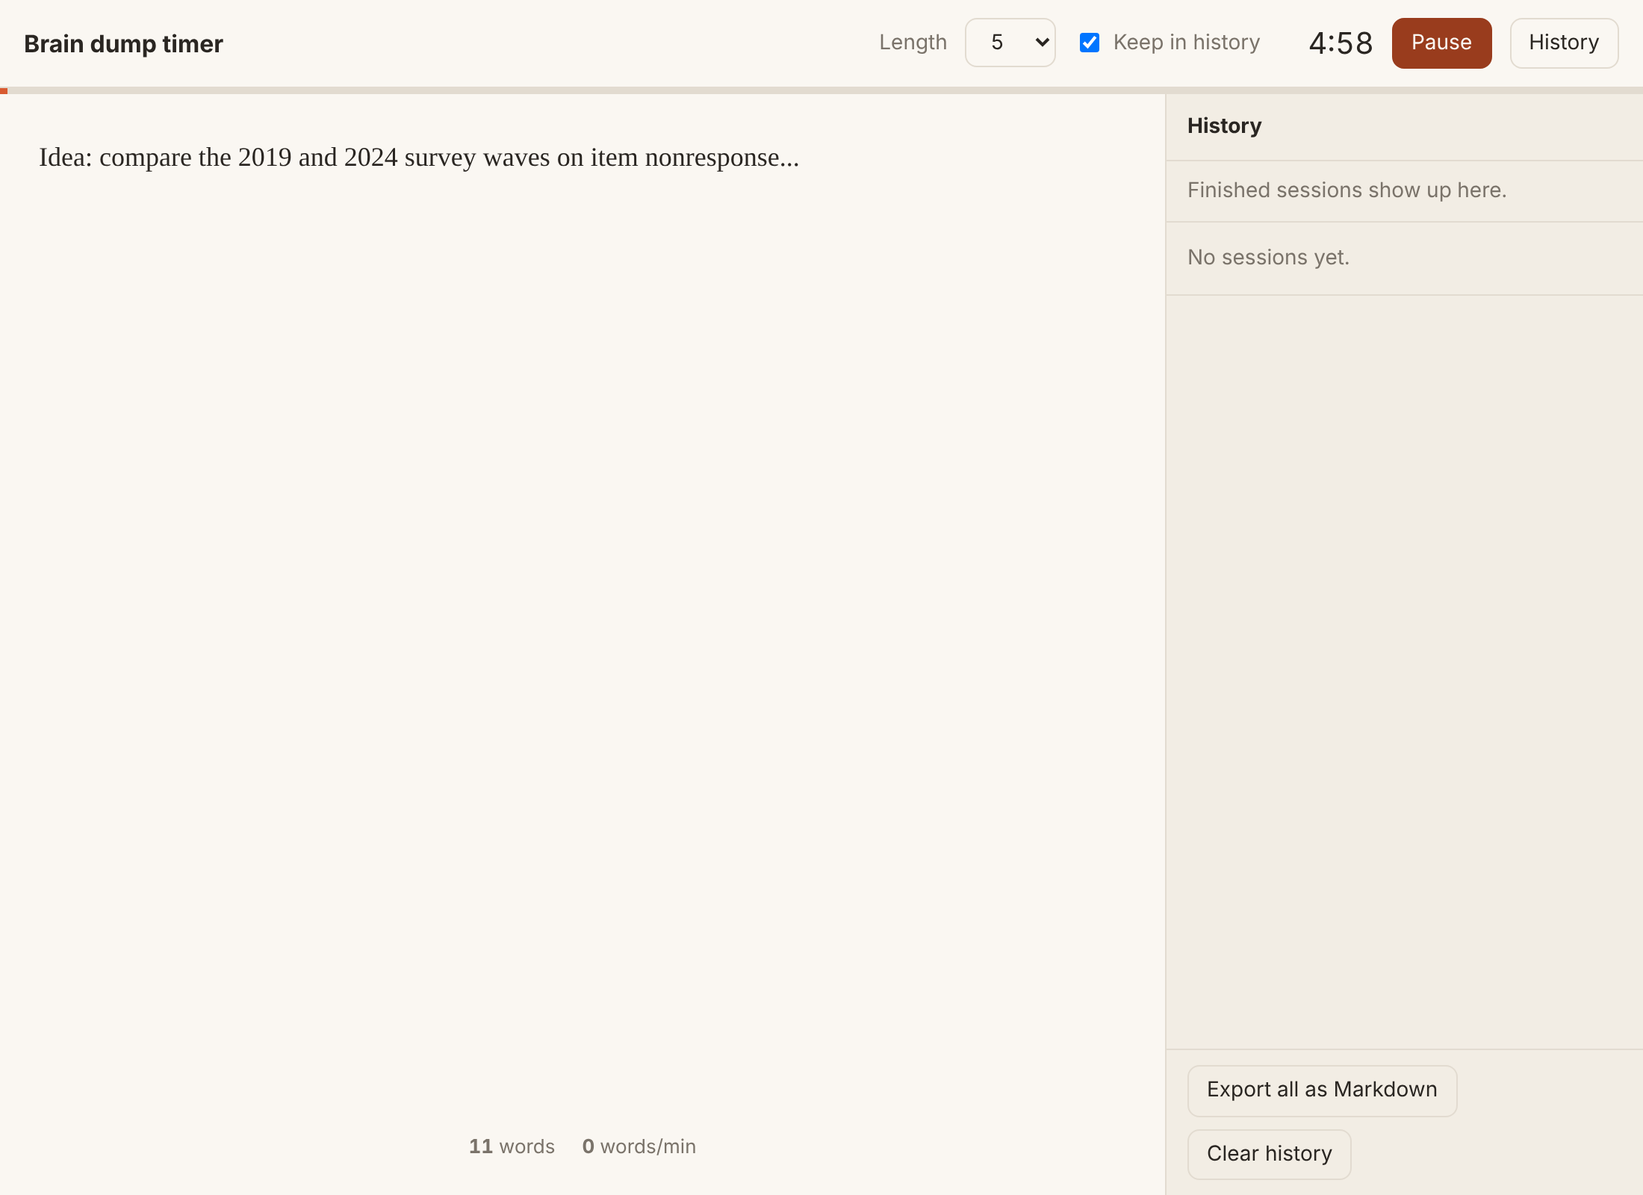
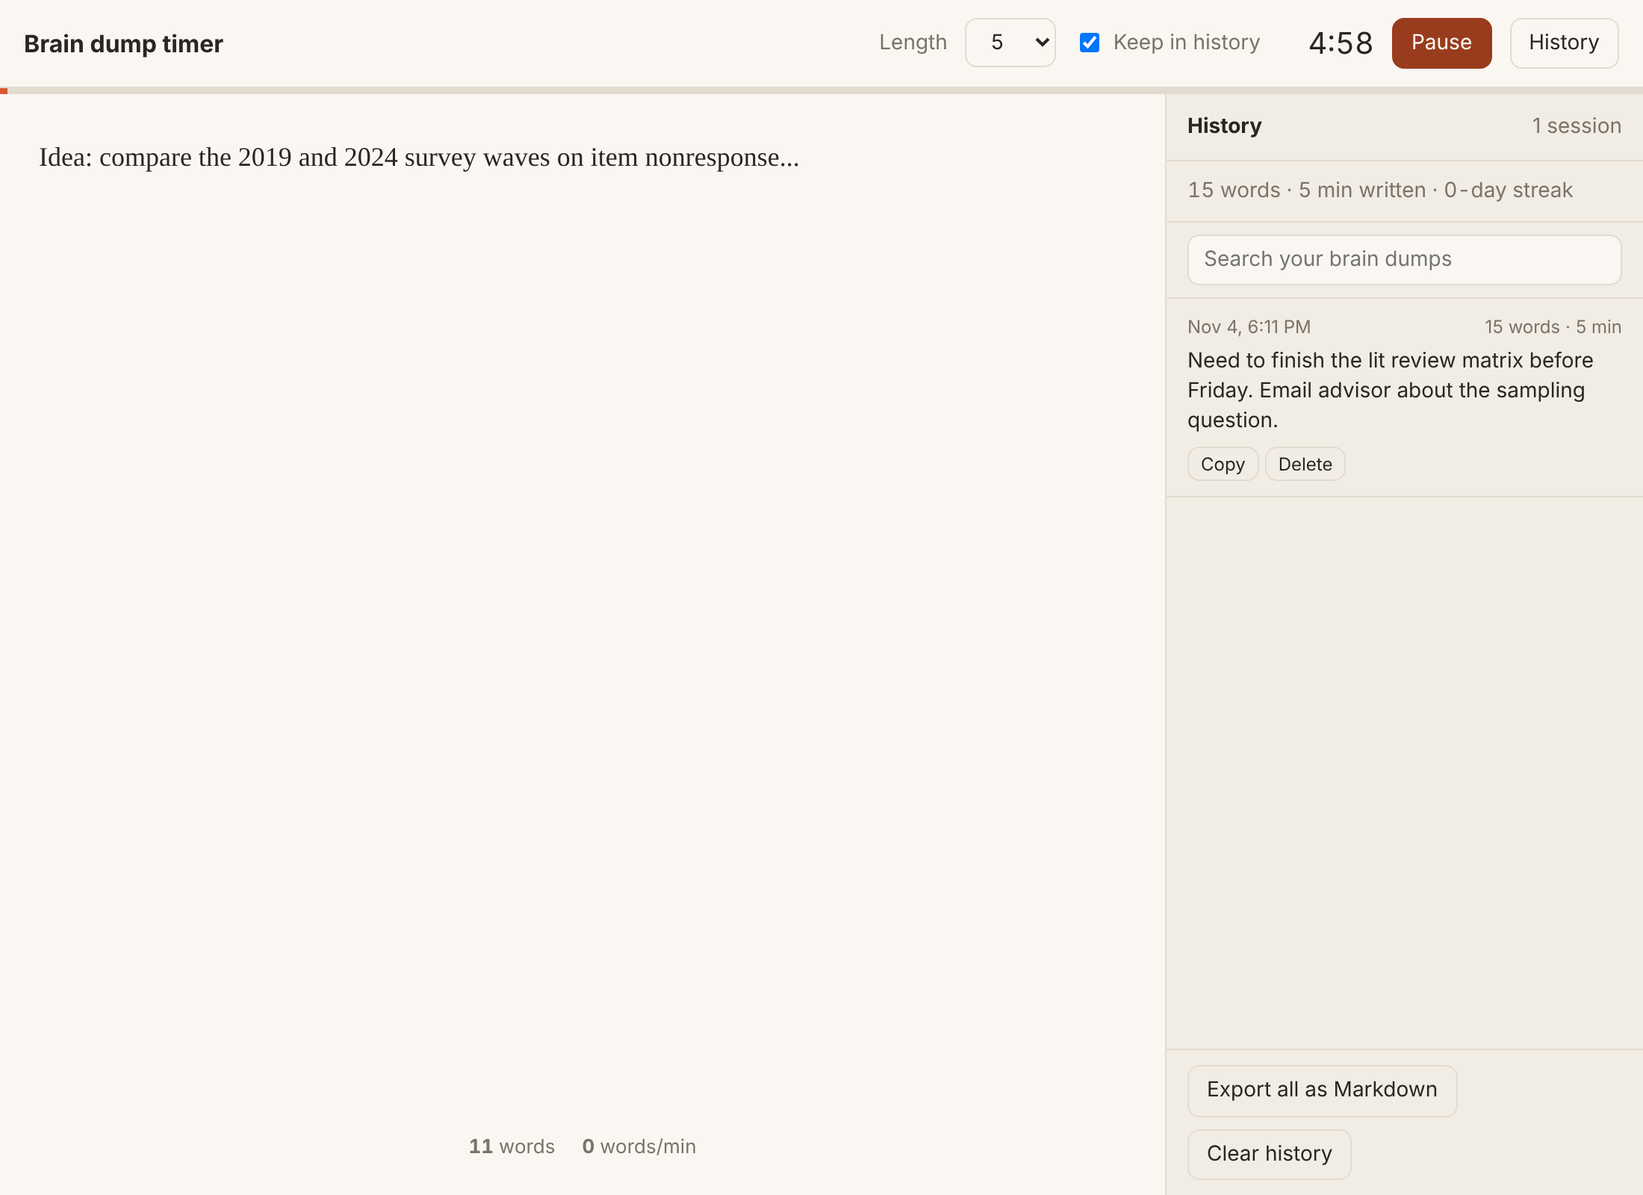
Week 8 apps: third iteration (Prompt 3)
Citation formatter: in-text citations, duplicate check, shortcuts.
Study planner: per-topic progress, hide finished days, shortcut.
Brain dump timer: history search with highlights, shortcuts.

Claude-Session: https://claude.ai/code/session_018oedMa7bfhyunVryLtJbkR

diff --git a/citation_formatter/citation-formatter.html b/citation_formatter/citation-formatter.html
@@ -38,6 +38,10 @@
   ol#lib li:first-child { border-top:0; }
   .empty { color:var(--muted); font-size:14px; padding:8px 0; }
   details { margin-top:12px; } summary { cursor:pointer; color:var(--accent); font-size:14px; }
+  .intext { display:grid; grid-template-columns:auto 1fr auto; gap:6px 12px; align-items:center; font-size:14px; }
+  .intext span.k { color:var(--muted); font-size:12px; } .intext code { font-family:Georgia, serif; font-size:15px; }
+  kbd { font:12px ui-monospace, Menlo, monospace; border:1px solid var(--line); border-bottom-width:2px; border-radius:4px; padding:0 4px; }
+  .dup { color:var(--warn); font-size:12px; }
 </style>
 </head>
 <body>
@@ -91,7 +95,10 @@
       <div class="out"><h3>APA 7 <button data-k="apa">Copy</button></h3><div class="cite" id="apa"></div></div>
       <div class="out"><h3>MLA 9 <button data-k="mla">Copy</button></h3><div class="cite" id="mla"></div></div>
       <div class="out"><h3>Chicago author-date <button data-k="chi">Copy</button></h3><div class="cite" id="chi"></div></div>
-      <p class="hint">Check against your style guide; title capitalization is kept as entered.</p>
+      <div class="out"><h3>In-text citations</h3>
+        <div class="intext" id="intext"></div>
+      </div>
+      <p class="hint">Check against your style guide; title capitalization is kept as entered. Shortcuts: <kbd>/</kbd> jumps to DOI lookup, <kbd>Ctrl</kbd>/<kbd>⌘</kbd>+<kbd>Enter</kbd> adds to the list.</p>
     </section>
   </div>
 
@@ -199,6 +206,18 @@ function chicago(d, A) {
   return out;
 }
 const FMT = { apa, mla, chi: chicago };
+function inText(d, A) {
+  const L = A.map(a => a.last), y = d.year || "n.d.";
+  const pg = (d.pages || "").split(/[-–]/)[0];
+  const apaN = !L.length ? `“${(d.title || "Untitled").split(/\s+/).slice(0, 4).join(" ")}”` : L.length === 1 ? L[0] : L.length === 2 ? `${L[0]} & ${L[1]}` : `${L[0]} et al.`;
+  const mlaN = !L.length ? `“${(d.title || "Untitled").split(/\s+/).slice(0, 4).join(" ")}”` : L.length === 1 ? L[0] : L.length === 2 ? `${L[0]} and ${L[1]}` : `${L[0]} et al.`;
+  const chiN = !L.length ? mlaN : L.length <= 3 ? (L.length === 1 ? L[0] : L.slice(0, -1).join(", ") + " and " + L.at(-1)) : `${L[0]} et al.`;
+  return [
+    ["APA", `(${apaN}, ${y})`, `${apaN.replace(" & ", " and ")} (${y})`],
+    ["MLA", `(${mlaN}${pg ? " " + pg : ""})`, ""],
+    ["Chicago", `(${chiN} ${y}${pg ? ", " + pg : ""})`, ""],
+  ];
+}
 const current = () => Object.fromEntries(F.map(k => [k, $(k).value.trim()]));
 
 function render() {
@@ -211,6 +230,15 @@ function render() {
   $("pubWrap").querySelector("label").textContent = t === "web" ? "Website name" : "Journal";
   const A = parseAuthors(d.authors), empty = !d.title && !A.length;
   for (const k in FMT) $(k).innerHTML = empty ? "" : FMT[k](d, A);
+  const box = $("intext"); box.innerHTML = "";
+  if (!empty) inText(d, A).forEach(([style, paren, narr]) => {
+    const k = document.createElement("span"); k.className = "k"; k.textContent = style;
+    const c = document.createElement("code"); c.textContent = paren + (narr ? "   ·   " + narr : "");
+    const b = document.createElement("button"); b.textContent = "Copy"; b.onclick = () => copyText(b, paren);
+    box.append(k, c, b);
+  });
+  const dupe = lib.some(x => sameRef(x, d));
+  $("save").title = dupe ? "This source is already in your list" : "";
   try { localStorage.setItem(KEY, JSON.stringify(d)); } catch (e) {}
 }
 function fill(d) { F.forEach(k => $(k).value = d[k] || (k === "type" ? "article" : "")); render(); }
@@ -243,6 +271,8 @@ async function lookup() {
 }
 
 /* ---- Reference list ---- */
+const norm = s => (s || "").toLowerCase().replace(/[^a-z0-9]/g, "");
+const sameRef = (a, b) => (norm(a.url) && norm(a.url) === norm(b.url)) || (norm(a.title) && norm(a.title) === norm(b.title) && (a.year || "") === (b.year || ""));
 function saveLib() { try { localStorage.setItem(LIB, JSON.stringify(lib)); } catch (e) {} }
 const sortKey = d => ((parseAuthors(d.authors)[0]?.last || d.title || "") + " " + d.year).toLowerCase();
 function renderLib() {
@@ -334,11 +364,16 @@ function download(name, text, mime) {
 /* ---- wiring ---- */
 F.forEach(k => $(k).addEventListener("input", render));
 $("lookup").onclick = lookup;
+document.addEventListener("keydown", e => {
+  if (e.key === "/" && !/INPUT|TEXTAREA|SELECT/.test(document.activeElement.tagName)) { e.preventDefault(); $("doiLookup").focus(); }
+  if (e.key === "Enter" && (e.ctrlKey || e.metaKey)) { e.preventDefault(); $("save").click(); }
+});
 $("doiLookup").addEventListener("keydown", e => { if (e.key === "Enter") lookup(); });
 document.querySelectorAll("[data-k]").forEach(b => b.addEventListener("click", () => { const el = $(b.dataset.k); copyText(b, el.textContent, el.innerHTML); }));
 $("save").onclick = () => {
   const d = current();
   if (!d.title && !d.authors) { $("lookupStatus").className = "status err"; $("lookupStatus").textContent = "Add at least a title or an author before saving."; return; }
+  if (lib.some(x => sameRef(x, d))) { $("lookupStatus").className = "status err"; $("lookupStatus").textContent = "That source is already in your reference list."; return; }
   lib.push(d); saveLib(); renderLib();
   $("save").textContent = "Added"; setTimeout(() => $("save").textContent = "Add to reference list", 1200);
 };
@@ -359,8 +394,10 @@ $("importBtn").onclick = () => {
   const txt = $("importBox").value, st = $("importStatus");
   const items = /^\s*@/m.test(txt) ? parseBibtex(txt) : /^TY\s{2}-/m.test(txt) ? parseRis(txt) : [];
   if (!items.length) { st.className = "status err"; st.textContent = "No BibTeX (@article{…}) or RIS (TY  - …) entries found."; return; }
-  lib.push(...items); saveLib(); renderLib();
-  st.className = "status ok"; st.textContent = `Imported ${items.length} reference${items.length > 1 ? "s" : ""}.`; $("importBox").value = "";
+  const fresh = items.filter(it => !lib.some(x => sameRef(x, it)));
+  lib.push(...fresh); saveLib(); renderLib();
+  const skipped = items.length - fresh.length;
+  st.className = "status ok"; st.textContent = `Imported ${fresh.length} reference${fresh.length === 1 ? "" : "s"}` + (skipped ? `, skipped ${skipped} already in your list.` : "."); $("importBox").value = "";
 };
 
 try {

diff --git a/study_planner/study-planner.html b/study_planner/study-planner.html
@@ -17,6 +17,7 @@
   input, textarea, select { width:100%; padding:8px 10px; font:inherit; color:var(--ink); background:var(--bg); border:1px solid var(--line); border-radius:8px; }
   textarea { min-height:130px; resize:vertical; }
   .hint { font-size:12px; color:var(--muted); margin-top:4px; }
+  kbd { font:11px ui-monospace, Menlo, monospace; border:1px solid var(--line); border-bottom-width:2px; border-radius:4px; padding:0 4px; }
   .row { display:grid; grid-template-columns:repeat(4, 1fr); gap:12px; }
   @media (max-width:720px) { .row { grid-template-columns:1fr 1fr; } }
   button { font:inherit; font-size:14px; padding:8px 14px; border-radius:8px; border:1px solid var(--accent); background:var(--accent); color:var(--card); cursor:pointer; }
@@ -39,6 +40,11 @@
   .pill.late { background:var(--warnTint); color:var(--warn); }
   .done span.t { text-decoration:line-through; color:var(--muted); }
   .exam { color:var(--warn); font-weight:600; }
+  .topics { display:grid; grid-template-columns:repeat(auto-fill, minmax(190px, 1fr)); gap:8px 16px; margin:14px 0 6px; font-size:13px; }
+  .topics div { min-width:0; } .topics .nm { display:flex; justify-content:space-between; gap:6px; }
+  .topics .nm span:first-child { overflow:hidden; text-overflow:ellipsis; white-space:nowrap; }
+  .topics .mini { height:4px; background:var(--line); border-radius:2px; overflow:hidden; margin-top:3px; } .topics .mini i { display:block; height:100%; background:var(--accent); }
+  .toggle { font-size:13px; color:var(--muted); display:flex; gap:6px; align-items:center; margin:0; } .toggle input { width:auto; }
   @media (max-width:520px) { .day { grid-template-columns:1fr; gap:4px; } }
 </style>
 </head>
@@ -50,7 +56,7 @@
   <section class="card">
     <label for="topics">Topics, one per line</label>
     <textarea id="topics" placeholder="Research design&#10;Sampling methods | hard&#10;Measurement | easy"></textarea>
-    <div class="hint">Add “| hard” or “| easy” after a topic to change how often it comes back. No tag means medium.</div>
+    <div class="hint">Add “| hard” or “| easy” after a topic to change how often it comes back. No tag means medium. <kbd>Ctrl</kbd>/<kbd>⌘</kbd>+<kbd>Enter</kbd> builds the plan.</div>
     <div class="row">
       <div><label for="start">Start date</label><input id="start" type="date"></div>
       <div><label for="exam">Deadline / exam date</label><input id="exam" type="date"></div>
@@ -67,10 +73,12 @@
   <section class="card" id="planCard" hidden>
     <div style="display:flex;justify-content:space-between;align-items:center;gap:10px;flex-wrap:wrap">
       <strong>Your plan</strong>
+      <label class="toggle"><input type="checkbox" id="hideDone"> Hide finished days</label>
       <div class="stats"><span><b id="sDone">0</b> of <b id="sTotal">0</b> done</span><span><b id="sDays">0</b> days left</span><span><b id="sToday">0</b> today</span></div>
     </div>
     <div class="bar"><i id="pbar"></i></div>
     <div class="banner" id="missed" hidden><span id="missedTxt"></span><button id="resched" type="button">Reschedule from today</button></div>
+    <div class="topics" id="topicProg"></div>
     <div id="plan"></div>
     <div class="actions">
       <button id="ics" class="ghost" type="button">Export to calendar (.ics)</button>
@@ -157,8 +165,19 @@ function render() {
   $("planCard").hidden = false;
   const box = $("plan"), t = todayISO(); box.innerHTML = "";
   let total = 0, done = 0, today = 0;
+  const per = {};
+  state.plan.forEach(day => day.items.forEach(it => { if (it.step === "Final") return; const p = per[it.topic] ||= { done: 0, total: 0, level: it.level }; p.total++; if (it.done) p.done++; }));
+  const tp = $("topicProg"); tp.innerHTML = "";
+  Object.entries(per).forEach(([name, p]) => {
+    const d = document.createElement("div");
+    d.innerHTML = `<div class="nm"><span></span><span>${p.done}/${p.total}</span></div><div class="mini"><i style="width:${100 * p.done / p.total}%"></i></div>`;
+    d.querySelector(".nm span").textContent = name + (p.level === "hard" ? " (hard)" : p.level === "easy" ? " (easy)" : "");
+    d.title = name; tp.append(d);
+  });
+  const hideDone = $("hideDone").checked;
   state.plan.forEach(day => {
     if (!day.items.length && !day.exam) return;
+    if (hideDone && !day.exam && day.items.every(i => i.done) && day.date !== t) { day.items.forEach(i => { total++; done++; }); return; }
     const row = document.createElement("div"); row.className = "day" + (day.date === t ? " today" : "");
     const dt = document.createElement("div"); dt.className = "date";
     dt.innerHTML = (day.date === t ? "Today · " : "") + fmt(parse(day.date)) + (day.exam ? '<small class="exam">Deadline</small>' : `<small>${day.items.length} session${day.items.length > 1 ? "s" : ""}</small>`);
@@ -219,6 +238,9 @@ $("sample").onclick = () => {
   build();
 };
 $("resched").onclick = reschedule;
+$("hideDone").onchange = () => { render(); try { localStorage.setItem("study-planner-hide", $("hideDone").checked ? "1" : "0"); } catch (e) {} };
+try { $("hideDone").checked = localStorage.getItem("study-planner-hide") === "1"; } catch (e) {}
+$("topics").addEventListener("keydown", e => { if (e.key === "Enter" && (e.ctrlKey || e.metaKey)) { e.preventDefault(); build(); } });
 $("ics").onclick = exportIcs;
 $("copy").onclick = async () => {
   const txt = state.plan.filter(d => d.items.length || d.exam).map(d => fmt(parse(d.date)) + (d.exam ? " — DEADLINE" : "\n" + d.items.map(i => `  [${i.done ? "x" : " "}] ${i.topic} (${i.step})`).join("\n"))).join("\n");

diff --git a/brain_dump_timer/brain-dump-timer.html b/brain_dump_timer/brain-dump-timer.html
@@ -35,6 +35,10 @@
   aside li button { font-size:12px; padding:2px 8px; margin-right:4px; }
   aside .foot { display:flex; gap:8px; flex-wrap:wrap; padding:10px 14px; border-top:1px solid var(--line); }
   .empty { padding:14px; color:var(--muted); }
+  .search { padding:8px 14px; border-bottom:1px solid var(--line); }
+  .search input { width:100%; font:inherit; padding:6px 10px; border:1px solid var(--line); border-radius:8px; background:var(--bg); color:var(--ink); }
+  mark { background:#fac775; color:#412402; border-radius:2px; }
+  kbd { font:11px ui-monospace, Menlo, monospace; border:1px solid var(--line); border-bottom-width:2px; border-radius:4px; padding:0 4px; }
   @media (max-width:760px) { .stage { flex-direction:column; } aside { width:auto; border-left:0; border-top:1px solid var(--line); max-height:45vh; } }
 </style>
 </head>
@@ -51,13 +55,14 @@
   <div class="bar"><i id="fill"></i></div>
   <div class="stage">
     <div class="write">
-      <textarea id="pad" placeholder="Press Start, then write whatever is in your head. Don't edit, don't stop. When time runs out it fades away so you can start fresh. A copy goes to your history unless you untick “Keep in history”." aria-label="Free-write area"></textarea>
+      <textarea id="pad" placeholder="Press Start (or Ctrl/⌘+Enter), then write whatever is in your head. Don't edit, don't stop. Esc pauses. When time runs out it fades away so you can start fresh. A copy goes to your history unless you untick “Keep in history”." aria-label="Free-write area"></textarea>
       <div class="live"><span><b id="wc">0</b> words</span><span><b id="wpm">0</b> words/min</span></div>
       <div id="msg" aria-live="polite"></div>
     </div>
     <aside id="hist" aria-label="Session history">
       <div class="head"><strong>History</strong><span class="muted" id="hCount"></span></div>
       <div class="totals" id="totals"></div>
+      <div class="search"><input id="q" type="search" placeholder="Search your brain dumps" aria-label="Search history"></div>
       <ol id="hList"></ol>
       <div class="foot">
         <button id="exportMd">Export all as Markdown</button>
@@ -114,10 +119,18 @@ function renderHist() {
   let streak = 0; for (let d = new Date(); ; d.setDate(d.getDate() - 1)) { const k = new Date(d.getTime() - d.getTimezoneOffset() * 6e4).toISOString().slice(0, 10); if (days.has(k)) streak++; else break; }
   $("totals").textContent = history.length ? `${tw.toLocaleString()} words · ${tm} min written · ${streak}-day streak` : "Finished sessions show up here.";
   if (!history.length) { ol.innerHTML = '<li class="empty">No sessions yet.</li>'; return; }
-  history.forEach((h, i) => {
+  const q = ($("q").value || "").trim().toLowerCase();
+  const shown = history.map((h, i) => ({ h, i })).filter(({ h }) => !q || h.text.toLowerCase().includes(q));
+  if (!shown.length) { ol.innerHTML = '<li class="empty">No sessions match that search.</li>'; return; }
+  shown.forEach(({ h, i }) => {
     const li = document.createElement("li");
     li.innerHTML = `<div class="meta"><span>${fmtDate(h.at)}</span><span>${h.words} words · ${h.minutes} min</span></div>`;
-    const p = document.createElement("p"); p.textContent = h.text; li.append(p);
+    const p = document.createElement("p");
+    if (q) { const at = h.text.toLowerCase().indexOf(q), from = Math.max(0, at - 40);
+      const pre = (from ? "…" : "") + h.text.slice(from, at), hit = h.text.slice(at, at + q.length), post = h.text.slice(at + q.length);
+      p.append(pre); const m = document.createElement("mark"); m.textContent = hit; p.append(m, post);
+    } else p.textContent = h.text;
+    li.append(p);
     const cp = document.createElement("button"); cp.textContent = "Copy";
     cp.onclick = async () => { try { await navigator.clipboard.writeText(h.text); cp.textContent = "Copied"; setTimeout(() => cp.textContent = "Copy", 1200); } catch (e) {} };
     const rm = document.createElement("button"); rm.textContent = "Delete";
@@ -141,6 +154,11 @@ $("go").onclick = () => {
   t = setInterval(tick, 1000);
 };
 $("pad").addEventListener("input", updateLive);
+$("q").addEventListener("input", renderHist);
+document.addEventListener("keydown", e => {
+  if (e.key === "Enter" && (e.ctrlKey || e.metaKey)) { e.preventDefault(); $("go").click(); }
+  else if (e.key === "Escape" && running) { $("go").click(); }
+});
 $("mins").onchange = () => { if (!running) reset(); };
 $("histBtn").onclick = () => { const h = $("hist"); h.hidden = !h.hidden; $("histBtn").setAttribute("aria-expanded", !h.hidden); try { localStorage.setItem("brain-dump-hist-open", h.hidden ? "0" : "1"); } catch (e) {} };
 $("exportMd").onclick = exportMd;

diff --git a/citation_formatter/prompts.md b/citation_formatter/prompts.md
@@ -51,3 +51,28 @@ I upgraded [citation-formatter.html](citation-formatter.html) in place (git hist
 - **Import:** paste BibTeX or RIS entries to add them to the list.
 
 Testing (headless Chromium): bad-DOI validation, 2 BibTeX and 1 RIS entries imported and formatted, BibTeX and RIS exports downloaded with the right fields, list survived a reload. The sandbox I ran in can't reach api.crossref.org, so I tested the lookup against a mocked Crossref response (fields filled, 404 handled); the live lookup still needs a human test. I also fixed a bug from version 1: fields meant to hide for a given source type stayed visible because a CSS rule overrode the `hidden` attribute. No console errors.
+
+# Prompt 3 (keep improving):
+
+> - **Tool:** Claude · Opus 5.5 · 2026-11-04
+> - **Session:** continued · attached: none
+> - **Verified:** agent-tested
+> - **Human edits:** none
+
+My messages, exactly as typed (two in a row):
+
+keep improving it please
+
+please contiue this way more
+
+I didn't name specific features, so Claude chose the round-3 changes itself.
+
+## Output 3:
+
+Third pass on [citation-formatter.html](citation-formatter.html):
+
+- **In-text citations:** a new panel shows the parenthetical form for APA, MLA and Chicago, plus APA's narrative form, each with its own Copy button. For example: (Smith & Doe, 2024), (Smith and Doe 45), (Smith and Doe 2024, 45).
+- **Duplicate check:** adding a source that's already in the list is blocked with a message, and imports skip entries you already have (matched by DOI, or by title plus year).
+- **Shortcuts:** `/` jumps to the DOI box, and Ctrl/⌘+Enter adds the current source to the list.
+
+Testing (headless Chromium): in-text forms correct for the two-author sample; adding the same source twice kept one entry; importing two BibTeX entries with one duplicate imported one and skipped one; `/` focused the DOI box. No horizontal scrolling at 390px phone width, no console errors.

diff --git a/study_planner/prompts.md b/study_planner/prompts.md
@@ -51,3 +51,28 @@ I upgraded [study-planner.html](study-planner.html) in place (git history has ve
 - **Progress:** done/total, days left, sessions due today, a progress bar, and today's row highlighted.
 
 Testing (headless Chromium): the sample (6 topics, 2 hard, 1 easy, 16 days) produced 28 sessions; the .ics had 29 events with correct start/end times; shifting the plan 3 days into the past showed 6 missed sessions, and rescheduling cleared the banner with all 28 sessions kept. I also fixed the version 1 bug where the CSS `display` rule overrode the `hidden` attribute. No console errors.
+
+# Prompt 3 (keep improving):
+
+> - **Tool:** Claude · Opus 5.5 · 2026-11-04
+> - **Session:** continued · attached: none
+> - **Verified:** agent-tested
+> - **Human edits:** none
+
+My messages, exactly as typed (two in a row):
+
+keep improving it please
+
+please contiue this way more
+
+I didn't name specific features, so Claude chose the round-3 changes itself.
+
+## Output 3:
+
+Third pass on [study-planner.html](study-planner.html):
+
+- **Per-topic progress:** a small bar for each topic shows sessions done out of total, with hard and easy topics labelled, so you can see which topics are falling behind.
+- **Hide finished days:** a toggle collapses days where every session is checked off (today always stays visible). The setting is remembered.
+- **Shortcut:** Ctrl/⌘+Enter in the topics box builds the plan.
+
+Testing (headless Chromium): the sample showed six topic bars with the right totals (6 for hard, 4 for medium, 3 for easy); the hide toggle and progress counts worked together. No horizontal scrolling at 390px phone width, no console errors.

diff --git a/brain_dump_timer/prompts.md b/brain_dump_timer/prompts.md
@@ -51,3 +51,27 @@ I upgraded [brain-dump-timer.html](brain-dump-timer.html) in place (git history 
 - **Clear history** needs a second click to confirm, and the panel can be hidden.
 
 Testing (headless Chromium): a 15-word session was saved to history at time-up, the text faded and cleared, the Markdown export had the right heading, length and text, and history survived a reload. No console errors.
+
+# Prompt 3 (keep improving):
+
+> - **Tool:** Claude · Opus 5.5 · 2026-11-04
+> - **Session:** continued · attached: none
+> - **Verified:** agent-tested
+> - **Human edits:** none
+
+My messages, exactly as typed (two in a row):
+
+keep improving it please
+
+please contiue this way more
+
+I didn't name specific features, so Claude chose the round-3 changes itself.
+
+## Output 3:
+
+Third pass on [brain-dump-timer.html](brain-dump-timer.html):
+
+- **Search history:** a search box filters past sessions and highlights the match in context, so old ideas are easy to find again.
+- **Shortcuts:** Ctrl/⌘+Enter starts or pauses, and Esc pauses.
+
+Testing (headless Chromium): Ctrl+Enter started the timer and Esc paused it; searching "irb" found and highlighted the right session, and a search with no hits showed "No sessions match that search." No horizontal scrolling at 390px phone width, no console errors.
